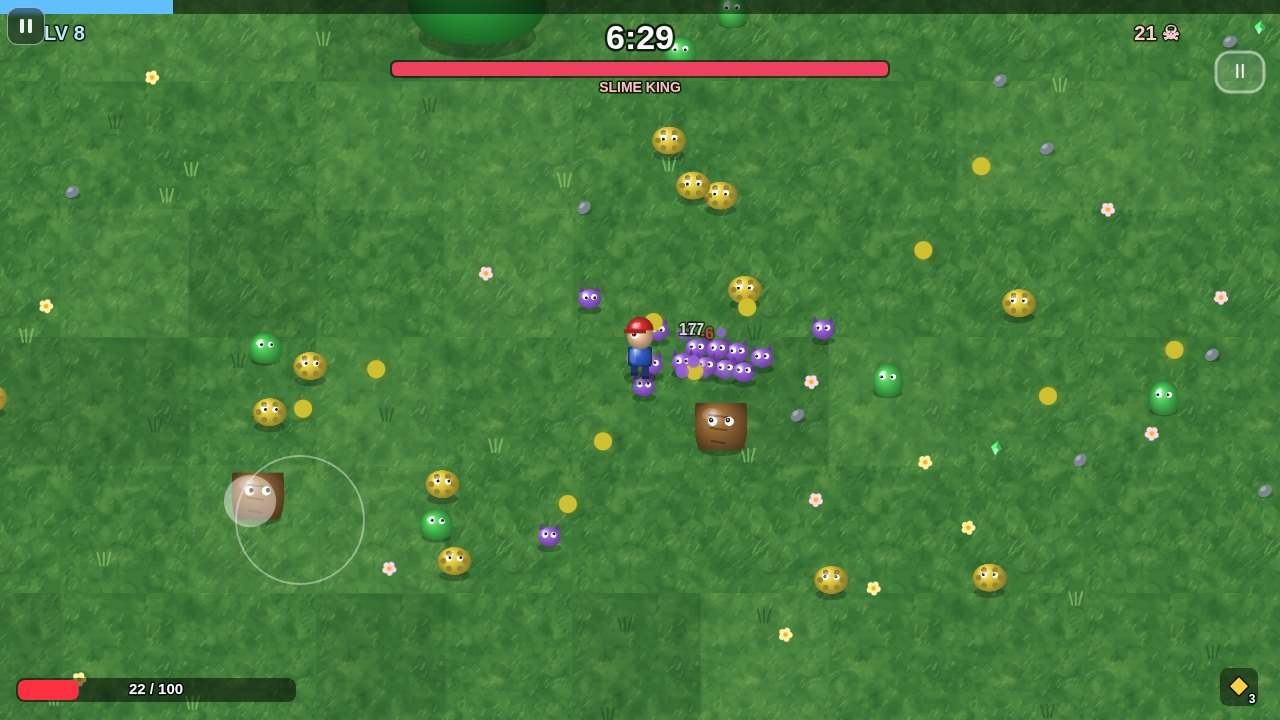
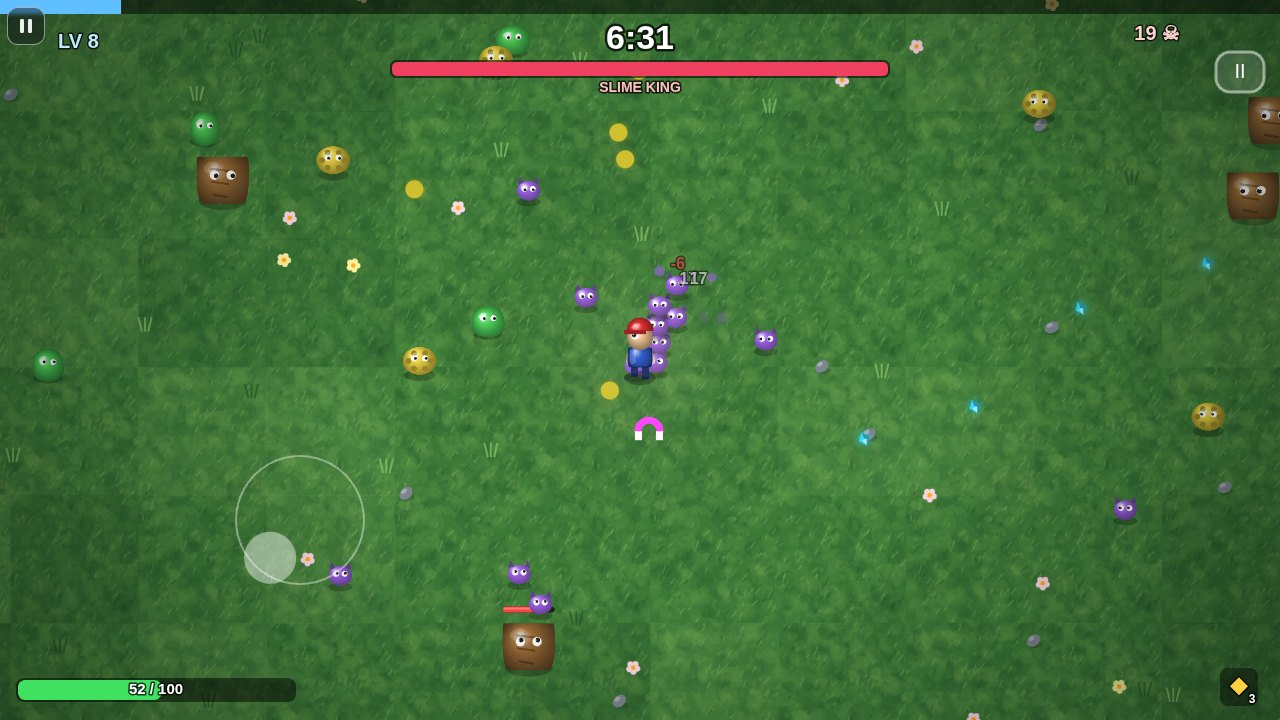
Gems are cyan, not green, so they stop looking like enemies (#33)
* Star Swarm: seamless nebula, new ship art, better asteroids

The background nebula was drawn as tiled 256px sprites on a 900-unit grid.
Each tile clipped its blob at the tile edge, so the sky showed straight
bands across it. It is now individual overlapping soft blobs placed on a
jittered grid, each one fading out on its own edge, so there are no seams
at any camera position.

The player ship was a flat triangle. Each hull is now baked once at 4x
resolution with a distinct silhouette per ship (delta, twin-boom dart,
heavy), swept wings with a lit leading edge, a gradient fuselage with
panel lines and a heat-shield band, a sharp nose cone, a teardrop glass
canopy, glowing engine bells and red/green wingtip lights. Only the
exhaust flame is drawn live, so the per-frame cost is one blit plus the
flame.

Asteroids were pale discs with translucent circles that read as soap
bubbles. They now have a hard silhouette, a single light direction, and
craters drawn as a lit rim plus a shadowed rim, with surface speckle.

Also moved the level label clear of the shelf menu button, and exposed
the effects-quality flag on the debug hook so the headless harness can
capture frames with the effects layer on.

Claude-Session: https://claude.ai/code/session_01866jXXs8pfArn3YPBdUtoa

* Gems are cyan, not green, so they stop looking like enemies

In both games the small XP gems were "#60ff80", within a few percent of
the commonest enemy in each: Star Swarm's scout is "#60e0a0" and Slime
[…]

diff --git a/Game7/index.html b/Game7/index.html
@@ -427,7 +427,10 @@ function drawWorld(){
    cx.globalAlpha=a*0.75;glow(p.x,p.y,p.r*1.6,"rgba(255,190,60,0.9)","rgba(255,90,20,0.35)");cx.globalAlpha=1;
    cx.fillStyle="rgba(255,"+Math.floor(170+Math.random()*70)+",80,"+a*0.8+")";
    cx.beginPath();cx.arc(p.x+rnd(-2,2),p.y+rnd(-2,2),p.r*(0.45+Math.random()*0.2),0,TAU);cx.fill()}}
- for(const g of G.gems){const col=g.big>=10?"#ffd040":g.big>=3?"#40c0ff":"#60ff80",s=g.big>=10?12:g.big>=3?9:7;
+ // Gems are one hue on purpose: the small ones used to be green, the same
+ // green as the commonest enemy, so "is that a pickup or a thing that bites"
+ // was a real question. Size and brightness carry the tier instead.
+ for(const g of G.gems){const col=g.big>=10?"#b8f6ff":g.big>=3?"#6ceaff":"#35dcff",s=g.big>=10?12:g.big>=3?9:7;
   if(FX||g.big>=3)glow(g.x,g.y,s*2.4,hexA(col,0.55),hexA(col,0.12));
   cx.save();cx.translate(g.x,g.y);cx.rotate(frameT*2.2);
   cx.fillStyle=shade(col,-0.3);cx.beginPath();cx.moveTo(0,s);cx.lineTo(-s*0.8,0);cx.lineTo(0,-s);cx.lineTo(s*0.8,0);cx.closePath();cx.fill();
@@ -471,7 +474,7 @@ function fmt(t){t=Math.max(0,Math.floor(t));return Math.floor(t/60)+":"+String(t
 function drawHUD(){cx.save();cx.scale(DPR,DPR);
  // XP bar
  cx.fillStyle="rgba(0,0,0,0.5)";cx.fillRect(0,0,W,14);cx.fillStyle="#60c0ff";cx.fillRect(0,0,W*clamp(G.xp/G.xpNext,0,1),14);
- text("LV "+G.level,44,34,20,"#c0e8ff","left");
+ text("LV "+G.level,58,42,20,"#c0e8ff","left");// clear of the shelf menu button
  text(fmt(RUN_LEN-G.t),W/2,40,34,"#fff");
  text(G.kills+" ☠",W-100,34,20,"#ffd0d0","right");
  // health
@@ -533,5 +536,5 @@ function frame(ts){requestAnimationFrame(frame);/*loop*/const dt=Math.min(0.05,(
 }
 buildArt();
 requestAnimationFrame(frame);
-window.SS={get G(){return G},get scene(){return scene},start,HEROES,set scene(v){scene=v}};
+window.SS={get G(){return G},get scene(){return scene},start,HEROES,set scene(v){scene=v},get fx(){return FX},set fx(v){FX=v?1:0}};
 </script></body></html>

diff --git a/docs/slime-storm/index.html b/docs/slime-storm/index.html
@@ -427,7 +427,10 @@ function drawWorld(){
    cx.globalAlpha=a*0.75;glow(p.x,p.y,p.r*1.6,"rgba(255,190,60,0.9)","rgba(255,90,20,0.35)");cx.globalAlpha=1;
    cx.fillStyle="rgba(255,"+Math.floor(170+Math.random()*70)+",80,"+a*0.8+")";
    cx.beginPath();cx.arc(p.x+rnd(-2,2),p.y+rnd(-2,2),p.r*(0.45+Math.random()*0.2),0,TAU);cx.fill()}}
- for(const g of G.gems){const col=g.big>=10?"#ffd040":g.big>=3?"#40c0ff":"#60ff80",s=g.big>=10?12:g.big>=3?9:7;
+ // Gems are one hue on purpose: the small ones used to be green, the same
+ // green as the commonest enemy, so "is that a pickup or a thing that bites"
+ // was a real question. Size and brightness carry the tier instead.
+ for(const g of G.gems){const col=g.big>=10?"#b8f6ff":g.big>=3?"#6ceaff":"#35dcff",s=g.big>=10?12:g.big>=3?9:7;
   if(FX||g.big>=3)glow(g.x,g.y,s*2.4,hexA(col,0.55),hexA(col,0.12));
   cx.save();cx.translate(g.x,g.y);cx.rotate(frameT*2.2);
   cx.fillStyle=shade(col,-0.3);cx.beginPath();cx.moveTo(0,s);cx.lineTo(-s*0.8,0);cx.lineTo(0,-s);cx.lineTo(s*0.8,0);cx.closePath();cx.fill();
@@ -471,7 +474,7 @@ function fmt(t){t=Math.max(0,Math.floor(t));return Math.floor(t/60)+":"+String(t
 function drawHUD(){cx.save();cx.scale(DPR,DPR);
  // XP bar
  cx.fillStyle="rgba(0,0,0,0.5)";cx.fillRect(0,0,W,14);cx.fillStyle="#60c0ff";cx.fillRect(0,0,W*clamp(G.xp/G.xpNext,0,1),14);
- text("LV "+G.level,44,34,20,"#c0e8ff","left");
+ text("LV "+G.level,58,42,20,"#c0e8ff","left");// clear of the shelf menu button
  text(fmt(RUN_LEN-G.t),W/2,40,34,"#fff");
  text(G.kills+" ☠",W-100,34,20,"#ffd0d0","right");
  // health
@@ -533,5 +536,5 @@ function frame(ts){requestAnimationFrame(frame);/*loop*/const dt=Math.min(0.05,(
 }
 buildArt();
 requestAnimationFrame(frame);
-window.SS={get G(){return G},get scene(){return scene},start,HEROES,set scene(v){scene=v}};
+window.SS={get G(){return G},get scene(){return scene},start,HEROES,set scene(v){scene=v},get fx(){return FX},set fx(v){FX=v?1:0}};
 </script></body></html>

diff --git a/Game10/index.html b/Game10/index.html
@@ -485,7 +485,10 @@ function drawWorld(){const sx=(Math.random()-0.5)*shake*14,sy=(Math.random()-0.5
  if(G.gate){const gt=G.gate;cx.save();cx.translate(gt.x,gt.y);for(let i=0;i<3;i++){cx.strokeStyle="rgba(120,200,255,"+(0.9-i*0.25)+")";cx.lineWidth=8-i*2;cx.beginPath();cx.arc(0,0,gt.r*(0.6+i*0.25)+Math.sin(frameT*4+i)*4,0,TAU);cx.stroke()}cx.fillStyle="rgba(80,140,255,0.35)";cx.beginPath();cx.arc(0,0,gt.r*0.6,0,TAU);cx.fill();cx.restore();
   // arrow to the gate when off-screen
   const dx=gt.x-G.px,dy=gt.y-G.py;if(Math.hypot(dx,dy)>300){const a=Math.atan2(dy,dx);cx.save();cx.translate(G.px+Math.cos(a)*120,G.py+Math.sin(a)*120);cx.rotate(a);cx.fillStyle="#80c0ff";cx.beginPath();cx.moveTo(18,0);cx.lineTo(-10,-12);cx.lineTo(-10,12);cx.fill();cx.restore()}}
- for(const g of G.gems){const col=g.big>=10?"#ffd040":g.big>=3?"#40c0ff":"#60ff80",s=g.big>=10?12:g.big>=3?9:7;
+ // Gems are one hue on purpose: the small ones used to be green, the same
+ // green as the commonest enemy, so "is that a pickup or a thing that bites"
+ // was a real question. Size and brightness carry the tier instead.
+ for(const g of G.gems){const col=g.big>=10?"#b8f6ff":g.big>=3?"#6ceaff":"#35dcff",s=g.big>=10?12:g.big>=3?9:7;
   if(FX||g.big>=3)glow(g.x,g.y,s*2.6,hexA(col,0.6),hexA(col,0.14));
   cx.save();cx.translate(g.x,g.y);cx.rotate(frameT*2.2);
   cx.fillStyle=shade(col,-0.3);cx.beginPath();cx.moveTo(0,s);cx.lineTo(-s*0.8,0);cx.lineTo(0,-s);cx.lineTo(s*0.8,0);cx.closePath();cx.fill();

diff --git a/docs/star-swarm/index.html b/docs/star-swarm/index.html
@@ -485,7 +485,10 @@ function drawWorld(){const sx=(Math.random()-0.5)*shake*14,sy=(Math.random()-0.5
  if(G.gate){const gt=G.gate;cx.save();cx.translate(gt.x,gt.y);for(let i=0;i<3;i++){cx.strokeStyle="rgba(120,200,255,"+(0.9-i*0.25)+")";cx.lineWidth=8-i*2;cx.beginPath();cx.arc(0,0,gt.r*(0.6+i*0.25)+Math.sin(frameT*4+i)*4,0,TAU);cx.stroke()}cx.fillStyle="rgba(80,140,255,0.35)";cx.beginPath();cx.arc(0,0,gt.r*0.6,0,TAU);cx.fill();cx.restore();
   // arrow to the gate when off-screen
   const dx=gt.x-G.px,dy=gt.y-G.py;if(Math.hypot(dx,dy)>300){const a=Math.atan2(dy,dx);cx.save();cx.translate(G.px+Math.cos(a)*120,G.py+Math.sin(a)*120);cx.rotate(a);cx.fillStyle="#80c0ff";cx.beginPath();cx.moveTo(18,0);cx.lineTo(-10,-12);cx.lineTo(-10,12);cx.fill();cx.restore()}}
- for(const g of G.gems){const col=g.big>=10?"#ffd040":g.big>=3?"#40c0ff":"#60ff80",s=g.big>=10?12:g.big>=3?9:7;
+ // Gems are one hue on purpose: the small ones used to be green, the same
+ // green as the commonest enemy, so "is that a pickup or a thing that bites"
+ // was a real question. Size and brightness carry the tier instead.
+ for(const g of G.gems){const col=g.big>=10?"#b8f6ff":g.big>=3?"#6ceaff":"#35dcff",s=g.big>=10?12:g.big>=3?9:7;
   if(FX||g.big>=3)glow(g.x,g.y,s*2.6,hexA(col,0.6),hexA(col,0.14));
   cx.save();cx.translate(g.x,g.y);cx.rotate(frameT*2.2);
   cx.fillStyle=shade(col,-0.3);cx.beginPath();cx.moveTo(0,s);cx.lineTo(-s*0.8,0);cx.lineTo(0,-s);cx.lineTo(s*0.8,0);cx.closePath();cx.fill();
